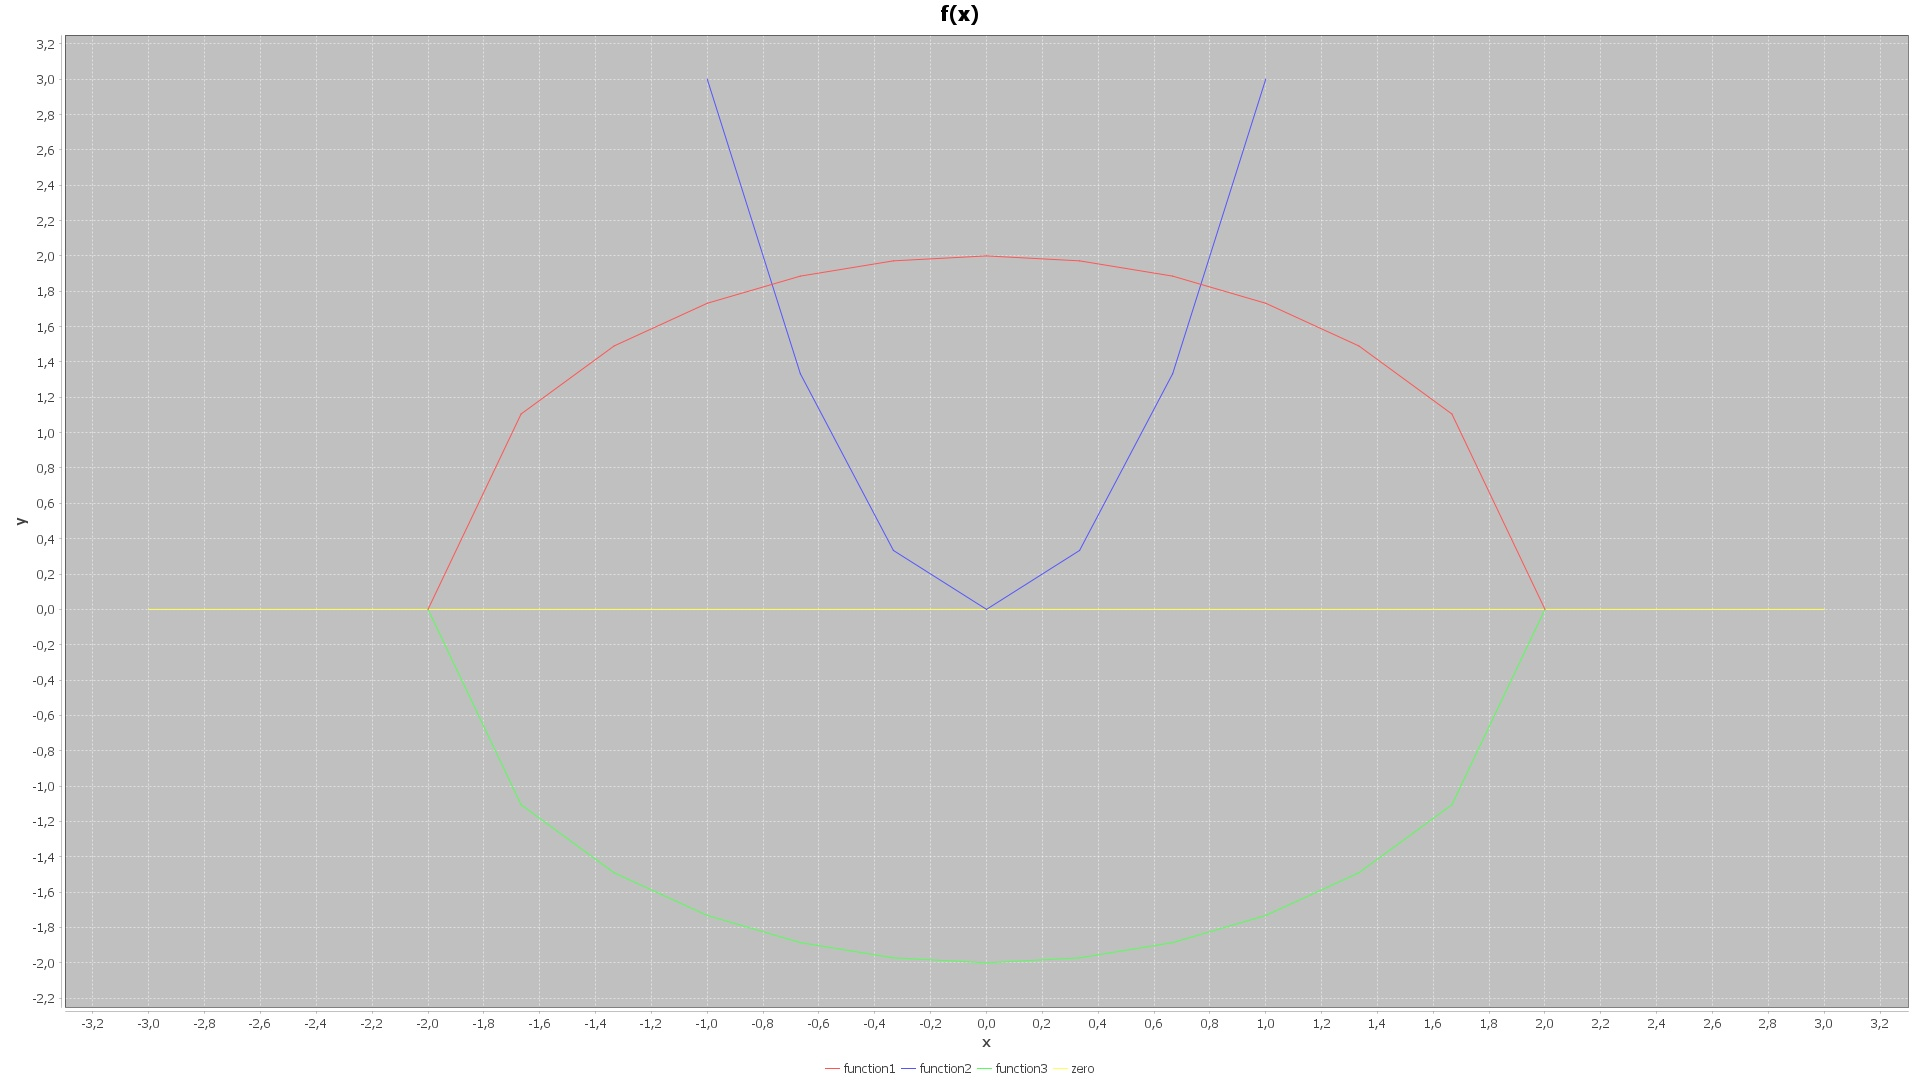
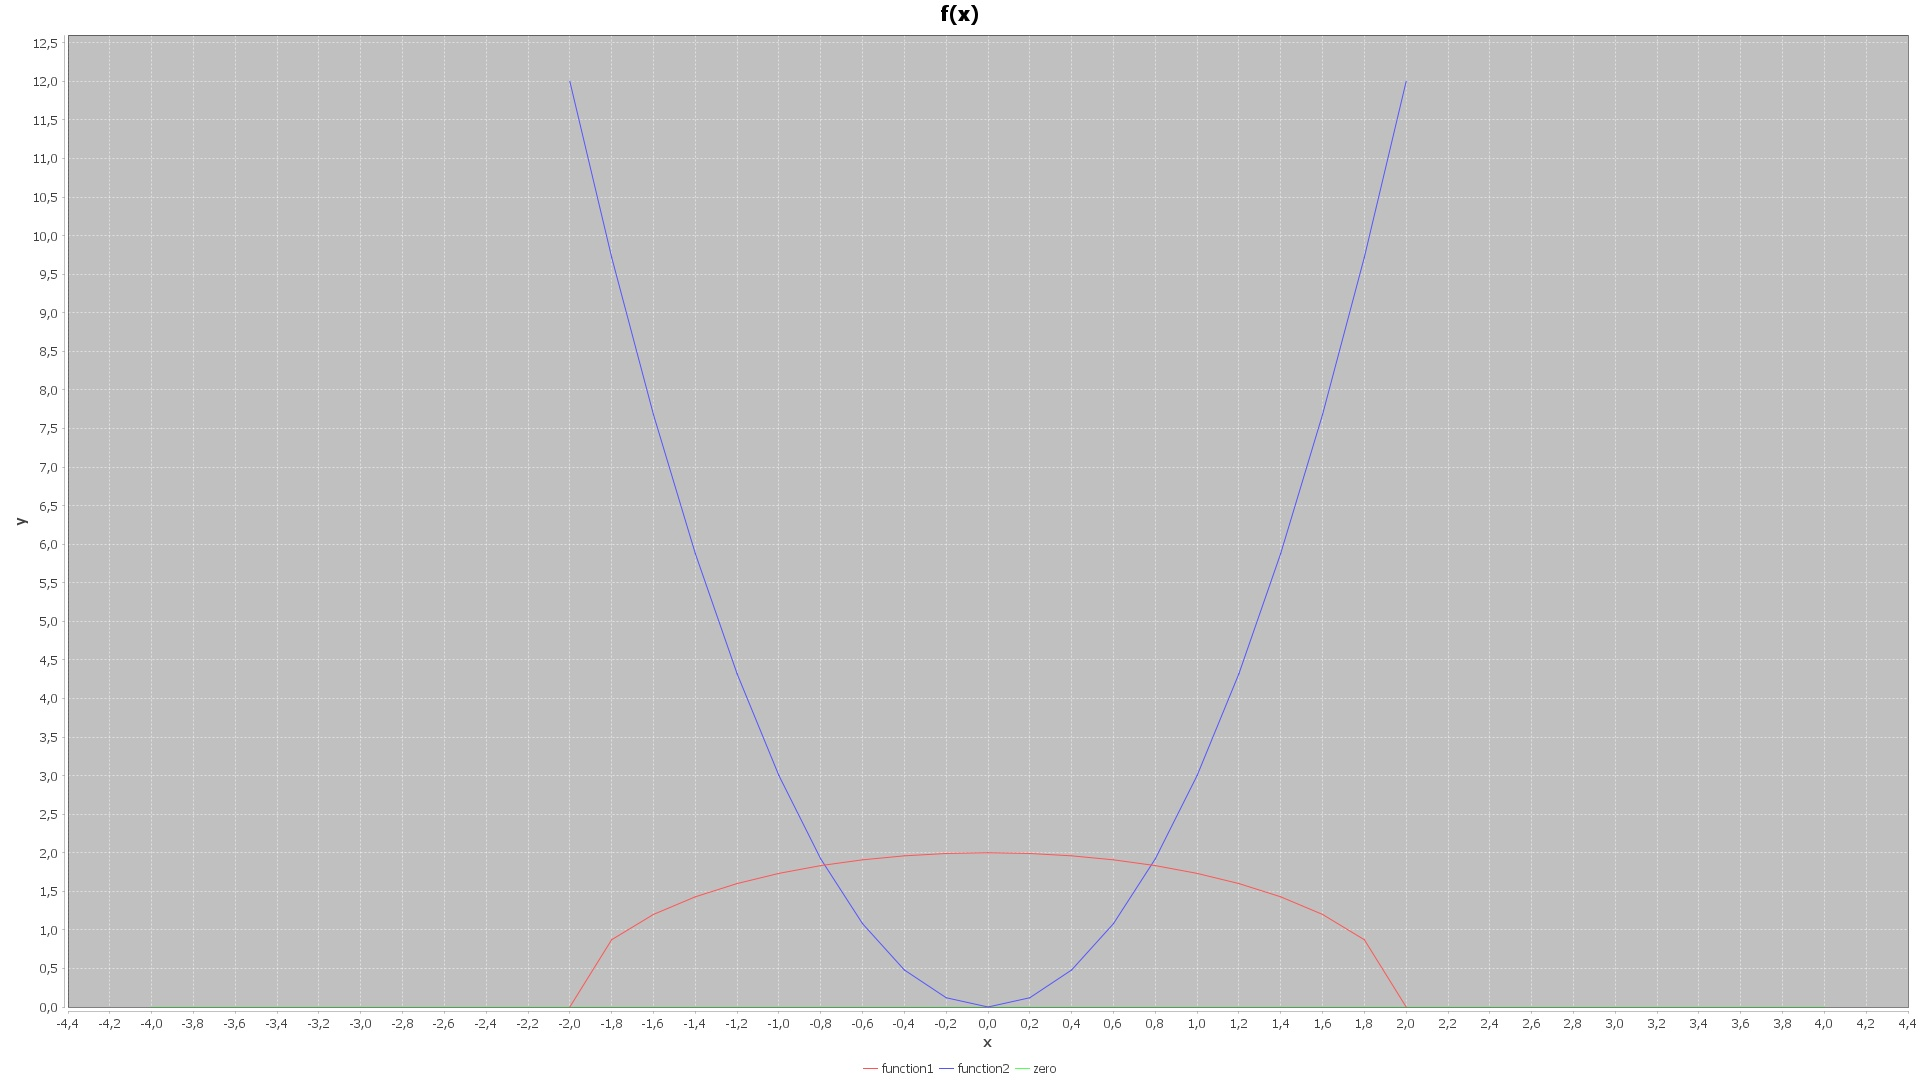
Need some fix with check intervals.

diff --git a/src/main/resources/templates/Systems.html b/src/main/resources/templates/Systems.html
@@ -3,14 +3,6 @@
 <head>
     <meta charset="UTF-8">
     <title>Title</title>
-    <link rel="stylesheet" href="https://cdn.jsdelivr.net/npm/katex@0.10.0-rc.1/dist/katex.min.css" integrity="sha384-D+9gmBxUQogRLqvARvNLmA9hS2x//eK1FhVb9PiU86gmcrBrJAQT8okdJ4LMp2uv" crossorigin="anonymous">
-
-    <!-- The loading of KaTeX is deferred to speed up page rendering -->
-    <script src="https://cdn.jsdelivr.net/npm/katex@0.10.0-rc.1/dist/katex.min.js" integrity="sha384-483A6DwYfKeDa0Q52fJmxFXkcPCFfnXMoXblOkJ4JcA8zATN6Tm78UNL72AKk+0O" crossorigin="anonymous"></script>
-
-    <!-- To automatically render math in text elements, include the auto-render extension: -->
-    <script defer src="https://cdn.jsdelivr.net/npm/katex@0.10.0-rc.1/dist/contrib/auto-render.min.js" integrity="sha384-yACMu8JWxKzSp/C1YV86pzGiQ/l1YUfE8oPuahJQxzehAjEt2GiQuy/BIvl9KyeF" crossorigin="anonymous"
-            onload="renderMathInElement(document.body);"></script>
 </head>
 <body>
 <form action="#" th:action="@{/formSystem}" th:object="${systemsForm}" th:method="GET">
@@ -19,15 +11,12 @@
         <label>1:</label>
         <input type="radio" th:field="*{numberOfSystem}" name="method1" value="1"/>
         <img src="../static/СистемаУравнений1.1.png" width="167" th:src="@{СистемаУравнений1.1.png}"/>
-<!--        \(x^2 + y^2 - 4=0\),-->
-<!--        <p></p>-->
-<!--        \(-3x^2 + y =0\)-->
     </div>
     <div>
 
         <label>2:</label>
         <input type="radio" th:field="*{numberOfSystem}" name="method3" value="2"/>
-        <img src="../static/СистемаУравнений1.1.png" width="167" th:src="@{СистемаУравнений1.1.png}"/>
+        <img src="../static/Система2.jpg" width="167" th:src="@{Система2.jpg}"/>
         <p></p>
     </div>
     <div>

diff --git a/src/main/resources/templates/smt.html b/src/main/resources/templates/smt.html
@@ -17,6 +17,7 @@
     <p></p>
     <a href="/lineSegment"> Назад </a>
 </span>
+<span th:if="${not #lists.isEmpty(dataOut)}">
 <table border="1">
     <thead>
     <tr>
@@ -40,5 +41,9 @@
 <!--    <img src="/chart" width="1000" th:src="@{/chart}"/>-->
 </div>
 <!--</span>-->
+</span>
+<span th:if="${#lists.isEmpty(dataOut)}">
+    Неверно введён отрезок!
+</span>
 </body>
 </html>

diff --git a/src/main/java/com/example/lab2spring/Chart/DrawChartForSystems.java b/src/main/java/com/example/lab2spring/Chart/DrawChartForSystems.java
@@ -68,37 +68,41 @@ public class DrawChartForSystems {
     public JFreeChart draw(double a, double b, int number) {
         XYSeriesCollection lineDataset = new XYSeriesCollection();
 
-//        a = a - 1;
-//        b = b + 1;
-        double x = 1;
-        double y = 2;
         XYSeries function1 = new XYSeries("function1");
         XYSeries function2 = new XYSeries("function2");
-        XYSeries function3 = new XYSeries("function3");
+//        XYSeries function3 = new XYSeries("function3");
         double len = 4;
-        for (double i = 2; i >= -2; i -= len / 12) {
-//            System.out.println("i " + i);
-            System.out.println(systemFuncForChart.systemsExpression1(i, 1));
-            function1.add(i,  systemFuncForChart.systemsExpression1(i, 1));
-        }
-        for (double i = 2; i >= -2; i -= len / 12) {
-//            System.out.println("i " + i);
-            System.out.println(-1 * systemFuncForChart.systemsExpression1(i, 1));
-            function3.add(i, -1 * systemFuncForChart.systemsExpression1(i, 1));
-        }
-
-        for (double i = -1; i <= 1; i += len / 12) {
+        if (number == 1) {
+            for (double i = 2; i >= -2; i -= len / 20) {
+                function1.add(i, systemFuncForChart.systemsExpression1(i, 1));
+            }
+            for (double i = -2; i <= 2; i += len / 20) {
+                function2.add(i, systemFuncForChart.systemsExpression2(i, 1, 1));
+            }
+        } else {
+            for (double i = 1.4; i >= -1 * 1.4; i -= len / 20) {
+                function1.add(i, systemFuncForChart.systemsExpression1(i, 2));
+            }
+            for (double i = -2; i <= 2; i += len / 20) {
 //            System.out.println(systemFuncForChart.systemsExpression2(i, 1, 1));
-            function2.add(i, systemFuncForChart.systemsExpression2(i, 1, 1));
+                function2.add(i, systemFuncForChart.systemsExpression2(i, 1, 2));
+            }
         }
+//        for (double i = -2; i <= 2; i += len / 20) {
+////            System.out.println("i " + i);
+////            System.out.println(-1 * systemFuncForChart.systemsExpression1(i, 1));
+//            function1.add(i, -1 * systemFuncForChart.systemsExpression1(i, 1));
+//        }
+
+
         XYSeries zero = new XYSeries("zero");
-        zero.add(-3, 0);
-        zero.add(3, 0);
+        zero.add(-4, 0);
+        zero.add(4, 0);
 
 
         lineDataset.addSeries(function1);
         lineDataset.addSeries(function2);
-        lineDataset.addSeries(function3);
+//        lineDataset.addSeries(function3);
         lineDataset.addSeries(zero);
 
         return rawDraw(lineDataset);

diff --git a/src/main/java/com/example/lab2spring/Methods/Method1.java b/src/main/java/com/example/lab2spring/Methods/Method1.java
@@ -1,18 +1,10 @@
 package com.example.lab2spring.Methods;
 
-import com.example.lab2spring.Chart.DrawChart;
 import com.example.lab2spring.Tables.TableMethod1;
-import jakarta.servlet.http.HttpServletResponse;
-import org.jfree.chart.JFreeChart;
-import org.springframework.stereotype.Controller;
-import org.springframework.web.bind.annotation.RequestMapping;
 
-import java.io.IOException;
-import java.io.OutputStream;
 import java.util.ArrayList;
 import java.util.List;
 
-import static org.jfree.chart.ChartUtils.writeChartAsJPEG;
 
 public class Method1 implements Method {
     private double a;
@@ -26,16 +18,9 @@ public class Method1 implements Method {
         this.e = e;
         this.number = number;
     }
-//    @GetMapping("/uploadimage") public String displayUploadForm() {
-//        return "imageupload/index";
-//    }
 
 
-
-
-    DrawChart drawChart = new DrawChart();
     Function function = new Function();
-    Out out = new Out();
 
     @Override
     public List<TableMethod1> method() {
@@ -44,9 +29,6 @@ public class Method1 implements Method {
         double aMinusB = e + 1;
         int count = 1;
         while (Math.abs(function.myFunc(x, number)) >= e && Math.abs(aMinusB) > e) {
-//            out.outMethod2InConsole(count, a, b, x, function.myFunc(a), function.myFunc(b), function.myFunc(x), Math.abs(aMinusB));
-//            TableMethod1 tableMethod1 = new TableMethod1(count, x, function.myFunc(x));
-//            tableMethod1s.add(tableMethod1);
             count++;
             x = (a + b) / 2;
             if (function.myFunc(a, number) * function.myFunc(x, number) > 0) {
@@ -57,17 +39,10 @@ public class Method1 implements Method {
             aMinusB = a - b;
 
         }
-//        System.out.println(Math.abs(function.myFunc(x)));
-////        System.out.println(Math.abs(aMinusB));
         x = (a + b) / 2;
-//        out.outMethod2InConsole(count, a, b, x, function.myFunc(a), function.myFunc(b), function.myFunc(x), Math.abs(aMinusB));
         TableMethod1 tableMethod1 = new TableMethod1(count, x, function.myFunc(x, number));
         tableMethod1s.add(tableMethod1);
-//        System.out.println(x);
-//        System.out.println(function.myFunc(x));
-//        System.out.println(count + 1);
 
-//        drawChart.draw(Math.round(a), Math.round(b), number);
         return tableMethod1s;
     }
 

diff --git a/src/main/java/com/example/lab2spring/Methods/Function.java b/src/main/java/com/example/lab2spring/Methods/Function.java
@@ -1,6 +1,5 @@
 package com.example.lab2spring.Methods;
 
-import java.lang.reflect.Array;
 import java.util.ArrayList;
 import java.util.List;
 
@@ -8,8 +7,8 @@ public class Function {
 
     public double myFunc(double x, int number) {
         if (number == 1) {
-//            return Math.pow(x, 3) - 4.5 * Math.pow(x, 2) - 9.21 * x - 0.383;
-            return Math.pow(x, 3) - x + 4;
+            return Math.pow(x, 3) - 4.5 * Math.pow(x, 2) - 9.21 * x - 0.383;
+//            return Math.pow(x, 3) - x + 4;
         } else if (number == 2) {
             return Math.pow(x, 3) + 1.41 * Math.pow(x, 2) - 5.472 * x - 7.38;
         } else if (number == 3) {
@@ -87,20 +86,33 @@ public class Function {
 //            System.out.println(out);
 //        }
         else if (number == 2) {
-            matrixList.add(1.0);
-//            System.out.println(2 * x);
-            matrixList.add(1.0);
-            matrixList.add(8 - x - y);
+//            matrixList.add(1.0);
+////            System.out.println(2 * x);
+//            matrixList.add(1.0);
+//            matrixList.add(8 - x - y);
+//            matrixList.add(2 * x);
+//            matrixList.add(2 * y);
+//            matrixList.add(82 - Math.pow(x, 2) - Math.pow(x, 2));
             matrixList.add(2 * x);
+//            System.out.println(2 * x);
             matrixList.add(2 * y);
-            matrixList.add(82 - Math.pow(x, 2) - Math.pow(x, 2));
+            matrixList.add(2 - Math.pow(x, 2) - Math.pow(y, 2));
+            matrixList.add(-6 * x);
+            matrixList.add(1.0);
+            matrixList.add(4 * Math.pow(x, 2) - y);
+
         }
         int size = 2;
         double[][] matrix = new double[size][size + 1];
         int index = 0;
         for (int i = 0; i < size; i++) {
             for (int j = 0; j < size + 1; j++) {
-                matrix[i][j] = matrixList.get(index);
+                try {
+                    matrix[i][j] = matrixList.get(index);
+                }
+                catch (IndexOutOfBoundsException e){
+                    return null;
+                }
                 index++;
             }
         }

diff --git a/src/main/java/com/example/lab2spring/SystemsOfNonlinearEquations.java b/src/main/java/com/example/lab2spring/SystemsOfNonlinearEquations.java
@@ -1,5 +1,6 @@
 package com.example.lab2spring;
 
+import com.example.lab2spring.Chart.UploadChart;
 import com.example.lab2spring.Methods.MethodForSystem;
 import org.springframework.boot.autoconfigure.web.servlet.WebMvcAutoConfiguration;
 import org.springframework.stereotype.Controller;
@@ -40,7 +41,7 @@ public class SystemsOfNonlinearEquations {
 //    }
     @GetMapping("/formSystem")
     public String save(SystemsForm systemsForm, Model model) {
-
+        UploadChart.numberChart = systemsForm.getNumberOfSystem();
         MethodForSystem m = new MethodForSystem(systemsForm.getNumberOfSystem(), systemsForm.getX0(), systemsForm.getY0(), systemsForm.getE());
 
         model.addAttribute("formSystems", m.method());

diff --git a/src/main/java/com/example/lab2spring/Chart/SystemFuncForChart.java b/src/main/java/com/example/lab2spring/Chart/SystemFuncForChart.java
@@ -7,7 +7,8 @@ public class SystemFuncForChart {
         if (number == 1) {
             return Math.sqrt(4 - Math.pow(x, 2));
         } else if (number == 2) {
-            return 8 - x;
+            return Math.sqrt(2 - Math.pow(x, 2));
+
         }
         return Math.sqrt(4 - Math.pow(x, 2));
     }
@@ -16,7 +17,7 @@ public class SystemFuncForChart {
         if (number == 1) {
             return 3 * Math.pow(x, 2);
         } else if (number == 2) {
-            return Math.sqrt(82 - Math.pow(x, 2));
+            return 4 * Math.pow(x, 2);
         }
         return y - 3 * Math.pow(x, 2);
     }

diff --git a/src/main/java/com/example/lab2spring/Methods/Method3.java b/src/main/java/com/example/lab2spring/Methods/Method3.java
@@ -17,9 +17,6 @@ public class Method3 implements Method {
         this.e = e;
         this.number = number;
     }
-//    int a = -2;
-//    int b = -1;
-//    double e = 0.01;
 
 
     @Override
@@ -27,7 +24,6 @@ public class Method3 implements Method {
         Function function = new Function();
         List<TableMethod1> tableMethod1s = new ArrayList<>();
         double x0;
-//        if (function.myFunc(a, number) < 0 && function.myFunc(b, number) > 0 && function.f2(a, number) < 0) {
         if (function.myFunc(a, number) * function.f2(a, number) > 0) {
             x0 = a;
         } else {

diff --git a/src/main/java/com/example/lab2spring/Methods/Method5.java b/src/main/java/com/example/lab2spring/Methods/Method5.java
@@ -29,7 +29,6 @@ public class Method5 implements Method {
 
         lambda = -1 / function.getMax(a, b, number);
 
-
         if (function.f1(a, number) < function.f1(b, number)) {
             last_X = b;
         } else {
@@ -41,7 +40,6 @@ public class Method5 implements Method {
             abs = Math.abs(start_X - last_X);
 
             while (abs > e) {
-
                 last_X = start_X;
                 start_X = function.Fi(last_X, lambda, number);
                 abs = Math.abs(start_X - last_X);
